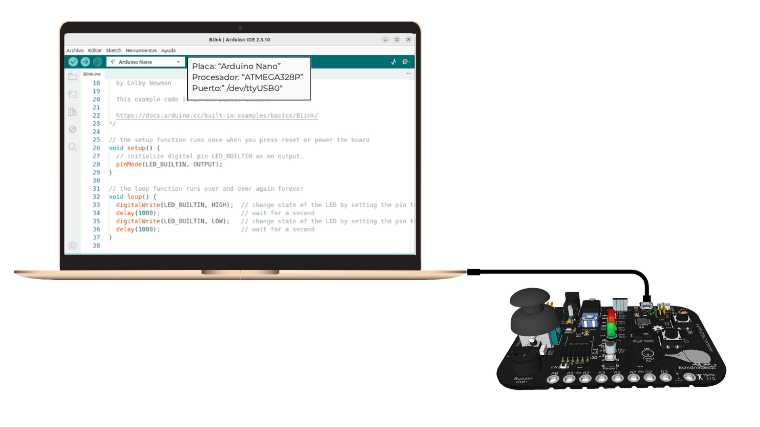
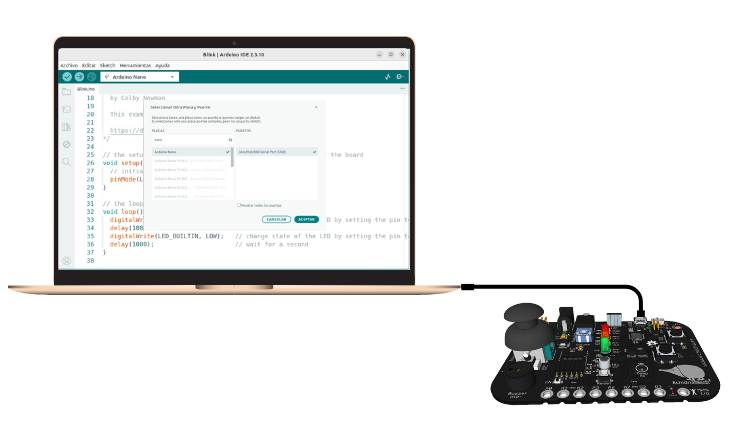
Usa la imagen de placa y puerto de la GuiaInicioArduinoIDE
En /ecosistema/arduino-ide/ la imagen de placa, procesador y puerto pasa a
ser la de la GuiaInicioArduinoIDE (Placa_procesador_puerto.png), que
muestra la ventana Seleccionar otra placa y puerto. Se adapta el texto
alternativo a lo que se ve.

Changed region(s): [[0.0, 0.0304, 0.9456, 0.9438]]

diff --git a/web/src/content/paginas/es/ecosistema/arduino-ide.md b/web/src/content/paginas/es/ecosistema/arduino-ide.md
@@ -48,7 +48,7 @@ Conecta la EchidnaBlack2 al ordenador con el cable USB-C y abre Arduino IDE. Ant
 - **Procesador**: **ATmega328P**.
 - **Puerto**: el puerto USB al que está conectada la placa. Su nombre depende del sistema operativo y el número puede cambiar según los dispositivos conectados: `/dev/ttyUSB0` en GNU/Linux, `COM3` en Windows o `/dev/cu.usbserial-1410` en macOS.
 
-![Un portátil con Arduino IDE conectado a la EchidnaBlack2 por USB, con la placa Arduino Nano, el procesador ATmega328P y el puerto /dev/ttyUSB0 elegidos.](./arduino-ide/placa-procesador-puerto.png)
+![Un portátil con Arduino IDE conectado a la EchidnaBlack2 por USB, con la ventana Seleccionar otra placa y puerto abierta: la placa Arduino Nano y el puerto /dev/ttyUSB0 elegidos.](./arduino-ide/placa-procesador-puerto.png)
 
 ## Estructura de un programa
 
